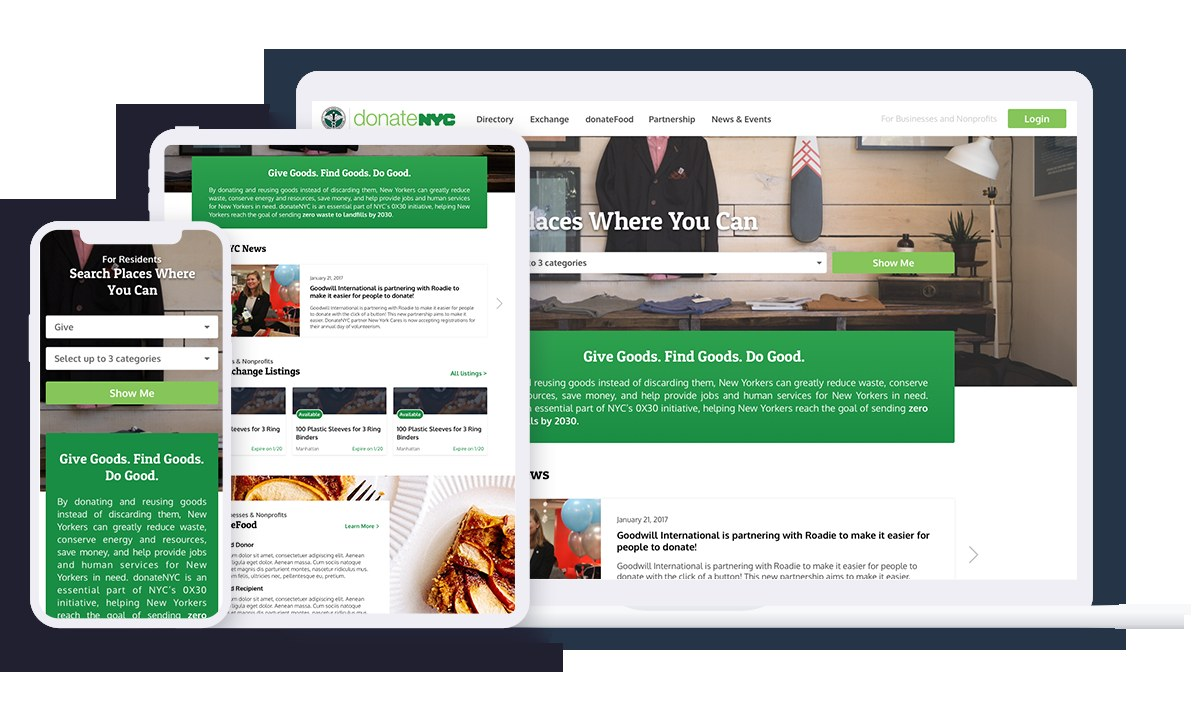
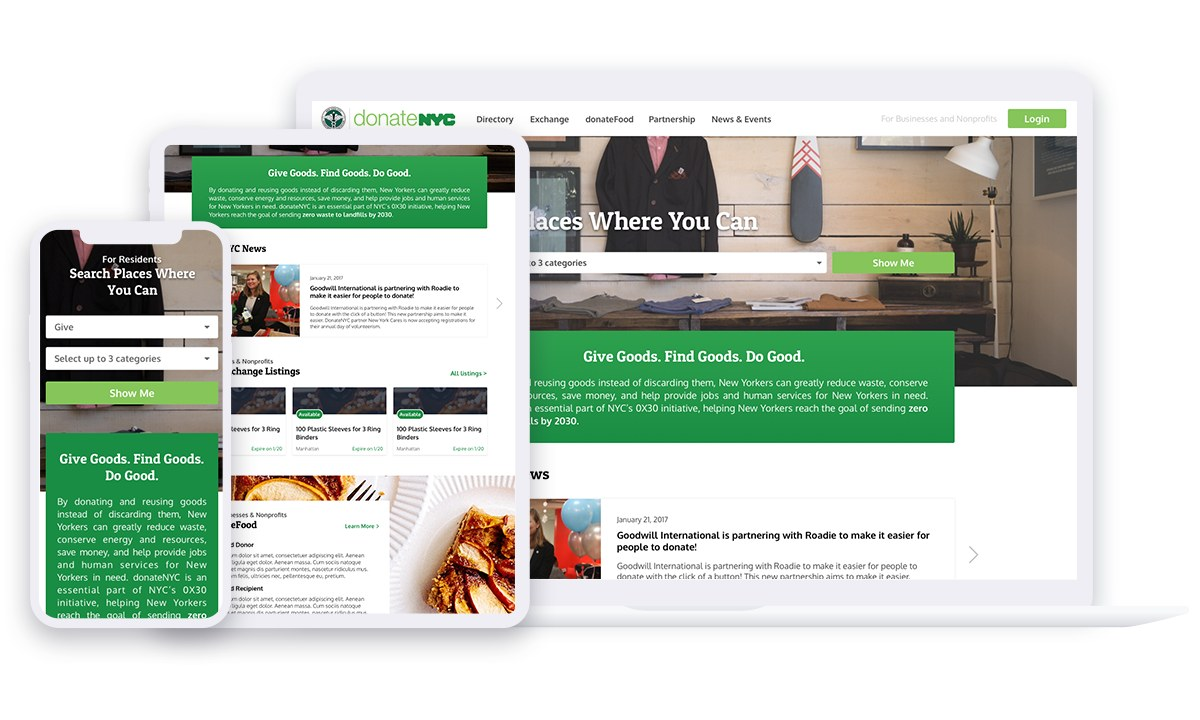
Add GoatCounter analytics to all pages

Changed region(s): [[0.0, 0.0611, 0.9867, 0.9472]]

diff --git a/about.html b/about.html
@@ -93,5 +93,6 @@ const io=new IntersectionObserver(es=>es.forEach(e=>{if(e.isIntersecting){e.targ
 document.querySelectorAll('.reveal').forEach(el=>io.observe(el));
 </script>
 <script src="assets/chat.js" defer></script>
+<script data-goatcounter="https://pochunlin227.goatcounter.com/count" async src="//gc.zgo.at/count.js"></script>
 </body>
 </html>

diff --git a/booking-for-business.html b/booking-for-business.html
@@ -924,5 +924,6 @@ document.querySelectorAll('[data-count]').forEach(el=>io3.observe(el));
 </script>
 <script src="assets/zoom.js" defer></script>
 <script src="assets/chat.js" defer></script>
+<script data-goatcounter="https://pochunlin227.goatcounter.com/count" async src="//gc.zgo.at/count.js"></script>
 </body>
 </html>

diff --git a/donate-nyc.html b/donate-nyc.html
@@ -579,5 +579,6 @@
 
 <script src="assets/zoom.js" defer></script>
 <script src="assets/chat.js" defer></script>
+<script data-goatcounter="https://pochunlin227.goatcounter.com/count" async src="//gc.zgo.at/count.js"></script>
 </body>
 </html>

diff --git a/dyson-support-home.html b/dyson-support-home.html
@@ -590,5 +590,6 @@
 
 <script src="assets/zoom.js" defer></script>
 <script src="assets/chat.js" defer></script>
+<script data-goatcounter="https://pochunlin227.goatcounter.com/count" async src="//gc.zgo.at/count.js"></script>
 </body>
 </html>

diff --git a/index.html b/index.html
@@ -272,5 +272,6 @@ vmodal.querySelector('.vclose').addEventListener('click',closeVideo);
 vmodal.addEventListener('click',e=>{if(e.target===vmodal)closeVideo();});
 document.addEventListener('keydown',e=>{if(e.key==='Escape'&&vmodal.classList.contains('open'))closeVideo();});
 </script>
+<script data-goatcounter="https://pochunlin227.goatcounter.com/count" async src="//gc.zgo.at/count.js"></script>
 </body>
 </html>

diff --git a/marketing-transformation.html b/marketing-transformation.html
@@ -660,5 +660,6 @@
 
 <script src="assets/zoom.js" defer></script>
 <script src="assets/chat.js" defer></script>
+<script data-goatcounter="https://pochunlin227.goatcounter.com/count" async src="//gc.zgo.at/count.js"></script>
 </body>
 </html>

diff --git a/play.html b/play.html
@@ -215,5 +215,6 @@ document.addEventListener('keydown',e=>{if(e.key==='Escape'&&vmodal.classList.co
   upd();
 })();
 </script>
+<script data-goatcounter="https://pochunlin227.goatcounter.com/count" async src="//gc.zgo.at/count.js"></script>
 </body>
 </html>

diff --git a/projects.html b/projects.html
@@ -113,5 +113,6 @@ const io=new IntersectionObserver(es=>es.forEach(e=>{if(e.isIntersecting){e.targ
 document.querySelectorAll('.reveal').forEach(el=>io.observe(el));
 </script>
 <script src="assets/chat.js" defer></script>
+<script data-goatcounter="https://pochunlin227.goatcounter.com/count" async src="//gc.zgo.at/count.js"></script>
 </body>
 </html>

diff --git a/promoted-users.html b/promoted-users.html
@@ -660,5 +660,6 @@
 
 <script src="assets/zoom.js" defer></script>
 <script src="assets/chat.js" defer></script>
+<script data-goatcounter="https://pochunlin227.goatcounter.com/count" async src="//gc.zgo.at/count.js"></script>
 </body>
 </html>